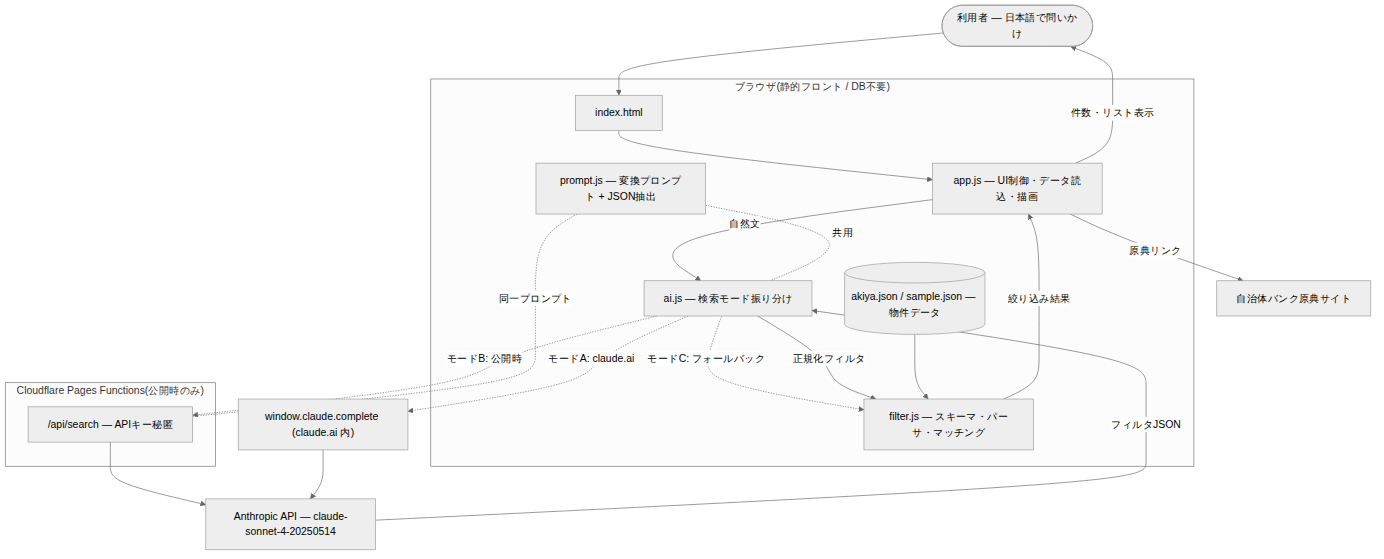
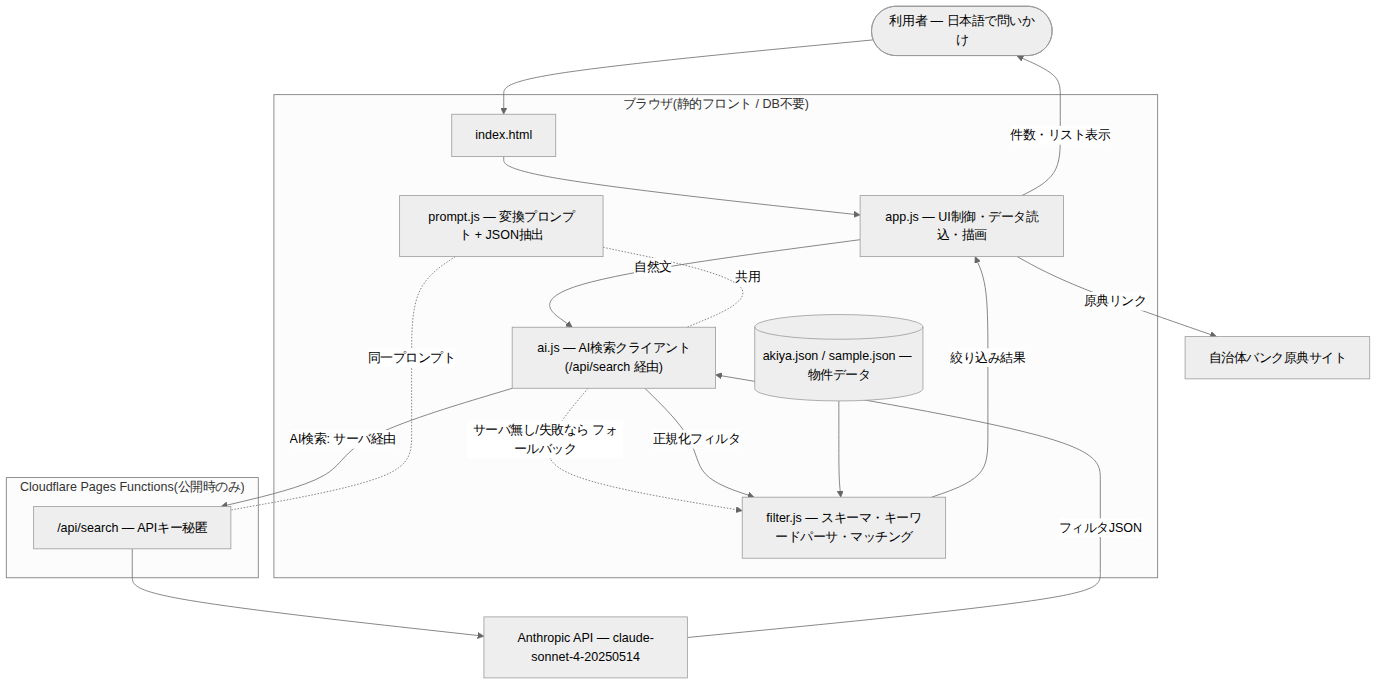
claude.ai Artifact 経路を削除し検索経路を2系統に簡素化
- ai.js: window.claude.complete(artifact)分岐を除去。mode() を ai/none の2値化し
  /api/search 経由のAI検索に一本化。実行環境依存の死にコードを排除
- app.js: モード表示と via 判定を簡素化
- README/docs/architecture: 「AI検索(サーバ)/キーワード」の二系統へ記述更新
- 構成図(01/02/03)を再生成

diff --git a/assets/js/ai.js b/assets/js/ai.js
@@ -1,30 +1,18 @@
-// ai.js — 二系統のAI検索クライアント
-// 1) claude.ai アーティファクト内: window.claude.complete を直接利用
-// 2) 公開時(Cloudflare Pages): /api/search (Pages Function, APIキー秘匿)
-// どちらも使えない/失敗した場合は呼び出し側が Filter.parseKeywordQuery にフォールバックする。
+// ai.js — AI検索クライアント(サーバ経路)
+// 公開時(Cloudflare Pages): /api/search (Pages Function) 経由で Anthropic API を呼ぶ。
+// APIキーはサーバ側に秘匿。サーバが無い/失敗した場合は呼び出し側が
+// Filter.parseKeywordQuery(キーワード検索)にフォールバックする。
 
 (function (global) {
   "use strict";
 
-  function hasArtifactAPI() {
-    return typeof global.claude === "object" && global.claude && typeof global.claude.complete === "function";
-  }
-
-  // 利用可能なモードを判定: "artifact" | "function" | "none"
-  // function モードの実在確認はリクエスト時に行う(起動時の余計なfetchを避ける)。
+  // 利用可能なモードを判定: "ai" | "none"
+  // file:// で開いた静的版にはサーバが無いので "none"。
+  // http(s) でも /api/search が無い場合(GitHub Pages 等)は、リクエスト時に
+  // 失敗 → 呼び出し側がキーワード検索へフォールバックする。
   function mode() {
-    if (hasArtifactAPI()) return "artifact";
-    // file:// で開いた静的版や GitHub Pages では Function は無い。
-    if (global.location && /^https?:$/.test(global.location.protocol)) return "function";
+    if (global.location && /^https?:$/.test(global.location.protocol)) return "ai";
     return "none";
-  }
-
-  async function viaArtifact(text) {
-    const prompt = `${global.Prompt.SYSTEM}\n\n${global.Prompt.buildUserPrompt(text)}`;
-    const raw = await global.claude.complete(prompt);
-    const obj = global.Prompt.extractFilterJSON(raw);
-    if (!obj) throw new Error("AI応答をJSONとして解釈できませんでした");
-    return global.Filter.normalize(obj);
   }
 
   async function viaFunction(text) {
@@ -44,14 +32,11 @@
 
   // 自然文 → 正規化済みフィルタ。失敗時は例外を投げる(呼び出し側でフォールバック)。
   async function search(text) {
-    switch (mode()) {
-      case "artifact": return viaArtifact(text);
-      case "function": return viaFunction(text);
-      default: throw new Error("AI検索は利用できません");
-    }
+    if (mode() === "ai") return viaFunction(text);
+    throw new Error("AI検索は利用できません");
   }
 
-  const api = { search, mode, hasArtifactAPI };
+  const api = { search, mode };
   if (typeof module !== "undefined" && module.exports) module.exports = api;
   global.AISearch = api;
 })(typeof window !== "undefined" ? window : globalThis);

diff --git a/assets/js/app.js b/assets/js/app.js
@@ -132,7 +132,7 @@
       let filter, via;
       try {
         filter = await window.AISearch.search(text);
-        via = window.AISearch.mode() === "artifact" ? "AI(claude.ai)" : "AI";
+        via = "AI";
       } catch (aiErr) {
         // フォールバック: キーワードパーサ
         filter = F.parseKeywordQuery(text);
@@ -163,7 +163,7 @@
       b.addEventListener("click", () => { $("#query").value = b.textContent; runSearch(); }));
     // モード表示
     const m = window.AISearch.mode();
-    $("#mode-badge").textContent = m === "artifact" ? "AI検索 (claude.ai)" : m === "function" ? "AI検索 + キーワード" : "キーワード検索";
+    $("#mode-badge").textContent = m === "ai" ? "AI検索 + キーワード" : "キーワード検索";
   }
 
   async function init() {

diff --git a/docs/architecture.md b/docs/architecture.md
@@ -20,15 +20,12 @@ flowchart TB
     end
 
     anthropic["Anthropic API<br/>claude-sonnet-4-20250514"]
-    artifact["window.claude.complete<br/>(claude.ai 内)"]
     source["自治体バンク原典サイト"]
 
     user --> idx --> app
     app -->|自然文| ai
-    ai -.->|モードA: claude.ai| artifact
-    ai -.->|モードB: 公開時| fn --> anthropic
-    artifact --> anthropic
-    ai -.->|モードC: 不可なら<br/>フォールバック| filter
+    ai -->|AI検索: サーバ経由| fn --> anthropic
+    ai -.->|サーバ無し/失敗なら<br/>フォールバック| filter
     prompt -.共用.- ai
     prompt -.同一プロンプト.- fn
 
@@ -40,22 +37,22 @@ flowchart TB
     app -->|原典リンク| source
 ```
 
-## 2. 検索1回の処理シーケンス(二系統 + フォールバック)
+## 2. 検索1回の処理シーケンス(AI検索 + フォールバック)
 
 ```mermaid
 sequenceDiagram
     participant U as 利用者
     participant App as app.js
     participant AI as ai.js
-    participant Src as AI(artifact / Function)
+    participant Fn as /api/search(Function)
     participant F as filter.js
     participant D as 物件JSON
 
     U->>App: 「予算300万以内、農地付き、海近い古民家」
     App->>AI: search(text)
-    alt AI検索が利用可能
-        AI->>Src: プロンプト送信(JSONのみ返すよう指示)
-        Src-->>AI: フィルタJSON文字列
+    alt サーバ(/api/search)が応答
+        AI->>Fn: プロンプト送信(JSONのみ返すよう指示)
+        Fn-->>AI: フィルタJSON文字列
         AI->>AI: extractFilterJSON → normalize
     else 利用不可 / 失敗
         AI-->>App: 例外
@@ -74,17 +71,13 @@ sequenceDiagram
 
 ```mermaid
 flowchart LR
-    subgraph A["claude.ai アーティファクト"]
-        a1["window.claude.complete<br/>= モードA(AI)"]
+    subgraph B["Cloudflare Pages(本番)"]
+        b1["/api/search + ANTHROPIC_API_KEY<br/>= AI検索(キー秘匿)"]
     end
-    subgraph B["Cloudflare Pages"]
-        b1["/api/search + ANTHROPIC_API_KEY<br/>= モードB(AI・キー秘匿)"]
+    subgraph C["GitHub Pages / file://(サーバ無し)"]
+        c1["/api/search 無し<br/>= キーワード検索"]
     end
-    subgraph C["GitHub Pages / file://"]
-        c1["Function なし<br/>= モードC(キーワード検索)"]
-    end
-    note["どのモードでも<br/>物件データ・絞り込み・原典誘導は共通"]
-    A --- note
+    note["どちらでも<br/>物件データ・絞り込み・原典誘導は共通"]
     B --- note
     C --- note
 ```

diff --git a/README.md b/README.md
@@ -7,11 +7,11 @@
 ## 特徴
 
 - **静的構成**: 物件データは静的JSON。検索・絞り込みはすべてクライアント側で完結。
-- **二系統の検索**(`進め方`どおりの設計):
+- **二系統の検索**:
   - **AI検索** — 自然文を Anthropic API(`claude-sonnet-4-20250514`)で構造化フィルタJSONへ変換。
-    - claude.ai アーティファクト内: `window.claude.complete` を直接利用。
-    - 公開時(Cloudflare Pages): Pages Function `/api/search` 経由でAPIキーを秘匿。
-  - **キーワード検索** — AIが使えない環境(GitHub Pages等)では `filter.js` の素朴なパーサにフォールバック。
+    公開時(Cloudflare Pages)は Pages Function `/api/search` 経由でAPIキーをサーバ側に秘匿する。
+  - **キーワード検索** — サーバが無い/応答しない環境(ローカル・GitHub Pages・障害時)では
+    `filter.js` の素朴なパーサに自動フォールバック。
 - **絞り込み**: 都道府県/市区町村セレクト、価格・築年・特徴タグ。件数表示。
 - **原典誘導**: 各物件から自治体バンク原典リンクへ。
 
@@ -22,7 +22,7 @@ index.html                  画面
 assets/css/style.css        スタイル
 assets/js/prompt.js         自然文→フィルタJSON 変換プロンプト(共用)
 assets/js/filter.js         フィルタスキーマ・キーワードパーサ・マッチング
-assets/js/ai.js             AI検索クライアント(二系統の振り分け)
+assets/js/ai.js             AI検索クライアント(/api/search 経由)
 assets/js/app.js            データ読込・UI制御・描画
 functions/api/search.js     Cloudflare Pages Function(Anthropic API、キー秘匿)
 data/akiya.sample.json      サンプルデータ(12件)
